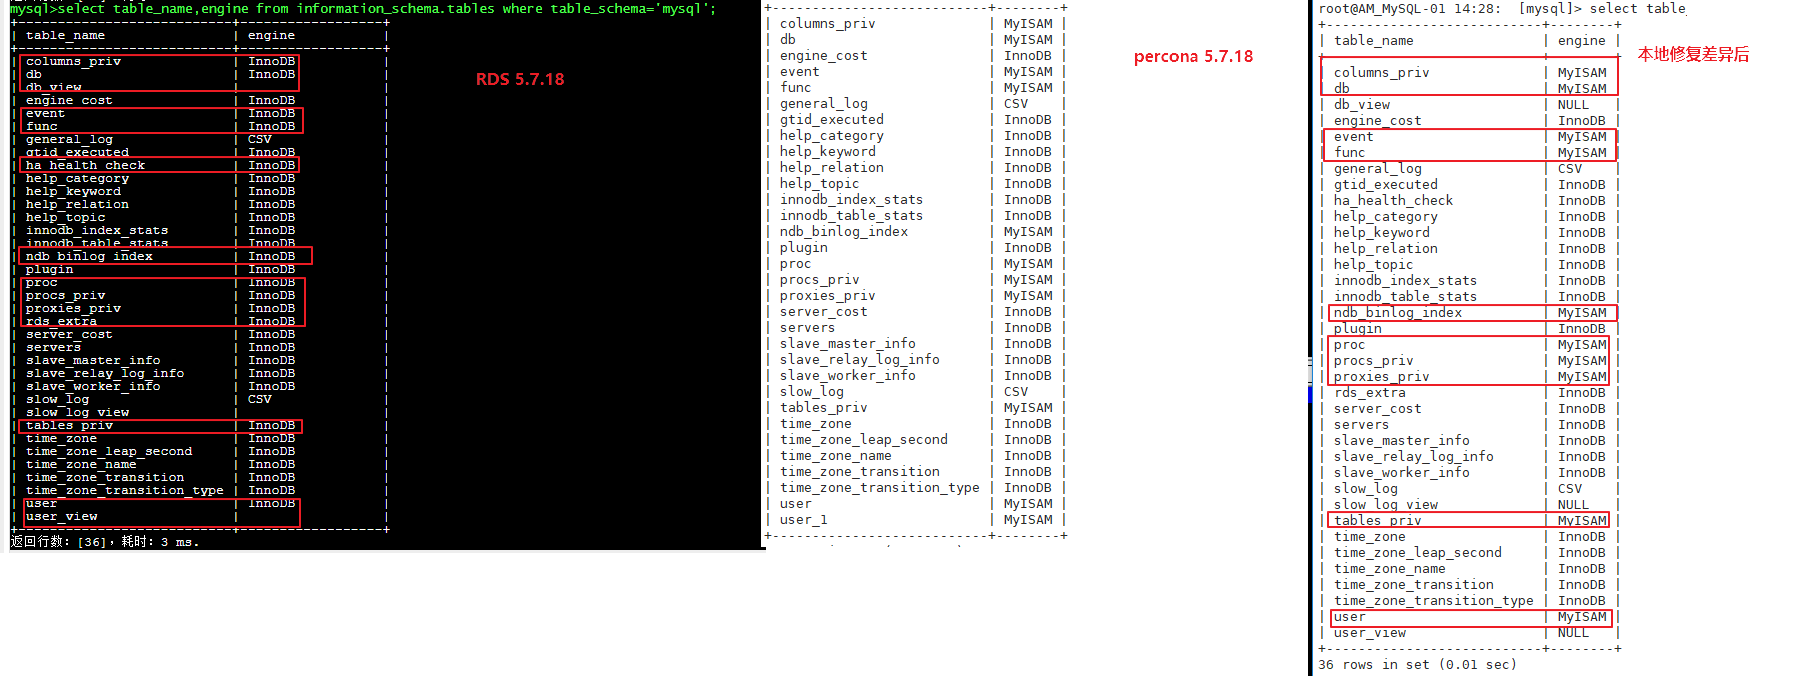
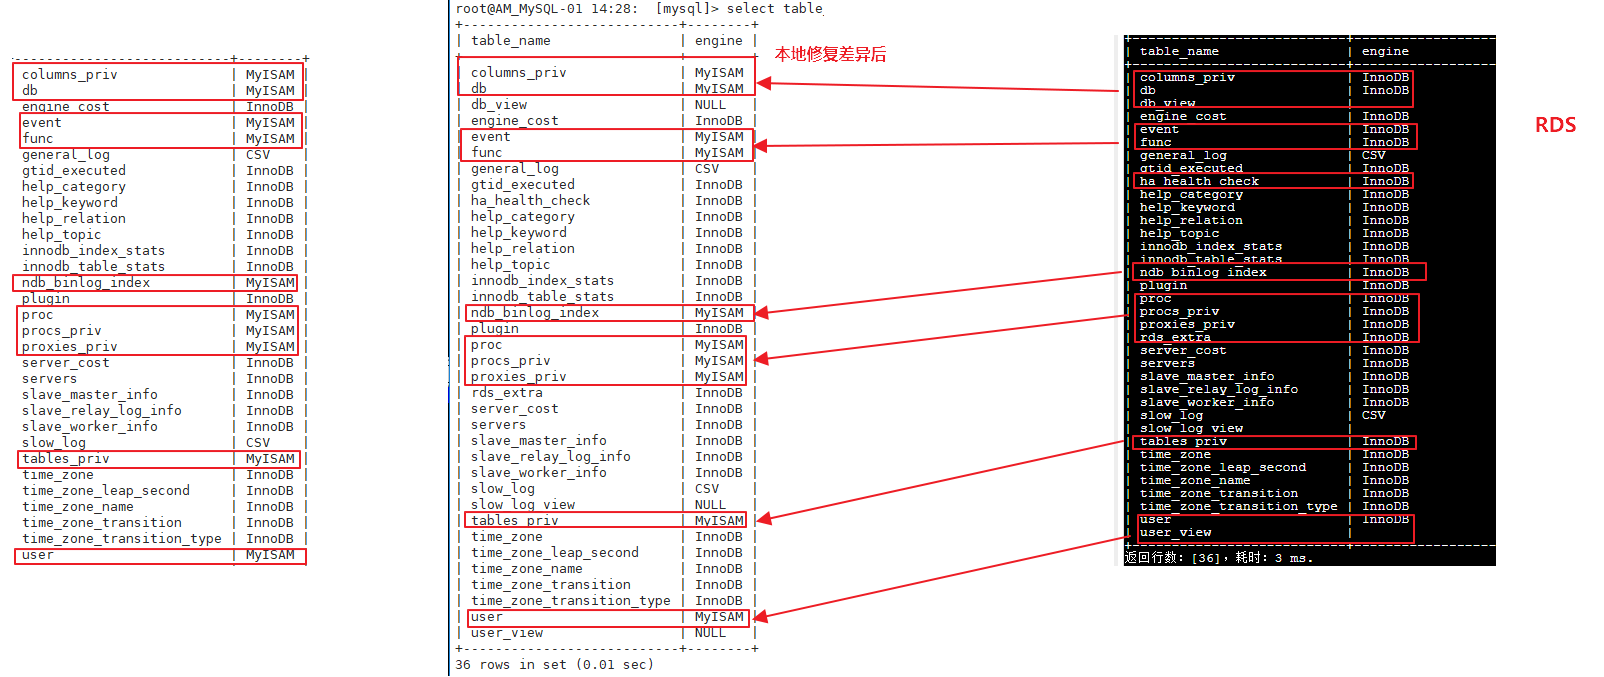
add check_mongodb_replica_set

diff --git a/Tec/突破阿里限制实现RDS For MySQL 5.7到自建MySQL数据实时同步.md b/Tec/突破阿里限制实现RDS For MySQL 5.7到自建MySQL数据实时同步.md
@@ -7,9 +7,7 @@
 
 > **摘要**
 >
-> 阿里云官网表示目前不支持RDS For MySQL 5.7 到自建MySQL的主从搭建，本篇文档尝试突破阿里云限制。经过多次验证发现，RDS使用的应该是Percona的数据库服务器，并进行了二次开发。
-> 第一种方法：物理备份还原后，更新数据库 `mysql_upgrade --force`
-> 第二种方法：物理备份还原后，手动修改系统库引擎
+> 阿里云官网表示目前不支持RDS For MySQL 5.7 到自建MySQL的主从搭建，本篇文档尝试突破阿里云限制。经过多次验证发现，PerconaServer与RDS的兼容性最高， 破解方法为：使用Percona Server，在物理备份还原后，手动修改系统库引擎，已达到数据实时同步，且能够正常于从库进行权限配置。
 
 ## 背景
 
@@ -97,12 +95,16 @@ select table_name,engine from information_schema.tables where table_schema='mysq
 
 ### 具体操作步骤
 
-#### 自建MySQL安装
+#### 1 自建MySQL安装
 
 ```shell
-wget ""
-bash 
+wget "https://raw.githubusercontent.com/BoobooWei/DBA_Mysql/master/scripts/auto_intall/install_perconaxerver5.7.20_centos7.sh"
+bash install_perconaxerver5.7.20_centos7.sh
+/alidata/mysql/support-files/mysql.server start
+mysql -e "select @@version;"
 ```
+
+如果返回`5.7.20-log`则说明已成功安装并启动了数据库服务。
 
 软件架构如下：
 
@@ -115,32 +117,71 @@ bash
 | 配置文件                | /etc/my.cnf                    |
 | RDS备份文件下载解压目录 | /alidata/mysql/xtrabackup_data |
 
-### 备份RDS的元数据（与本地有差别的表）
+#### 2 全备份文件下载并解压
+
+登陆到阿里云RDS控制台，选择最近的全备份进行下载，全备份时间不能超过binlog设置的过期时间。
+
+```shell
+curl -o "hins4764419_data_20180913072637.tar.gz" "http://rdsbak-shanghai-v2.oss-cn-shanghai-internal.aliyuncs.com/asldkjalsdkjflasdjf"
+```
+
+下载pxc工具以及阿里云专用解压工具
+
+```shell
+wget https://raw.githubusercontent.com/BoobooWei/DBA_Mysql/master/scripts/auto_intall/install_rds_pxc_centos7.sh
+bash install_rds_pxc_centos7.sh
+```
+开始解压全备份数据
+
+```shell
+# 全备份恢复
+bash rds_backup_extract.sh -f hins4764419_data_20180913072637.tar.gz -C /alidata/mysql/xtrabackup_data
+# applay-log
+innobackupex --apply-log /alidata/mysql/xtrabackup_data
+chown mysql. -R /alidata/mysql/xtrabackup_data
+```
+如果数据量很大，这一步会非常耗时。
+
+#### 3 将全备份数据恢复
+
+停止数据库服务
+
+```shell
+/alidata/mysql/support-files/mysql.server stop
+```
+
+将初始化的数据库数据目录重命名为data_back
+```shell
+mv /alidata/mysql/data/ /alidata/mysql/data_back
+```
+
+将pxc恢复的全备份文件目录重命名为data
+
+```shell
+mv /alidata/mysql/xtrabackup_data /alidata/mysql/data
+```
+
+启动本地数据库
+
+```shell
+/alidata/mysql/support-files/mysql.server start
+```
+#### 4 手动修改系统库
+
+备份RDS的元数据（与本地有差别的表）
+
+```shell
+mysqldump -u$rds_user -p$rds_pwd -h$rds_url -P $rds_port mysql columns_priv db event func ndb_binlog_index proc procs_priv proxies_priv tables_priv user  --set-gtid-purged=OFF --opt --default-character-set=utf8  --single-transaction --hex-blob --skip-triggers --max_allowed_packet=824288000 -d  > mysql.sys.meta.sql
+```
 
 备份rds差异表的数据
 
-
-
 ```shell
-#!/bin/bash
-# auth:BoobooWei
-# mail:rgweiyaping@hotmail.com
-# info:搭建RDS到自建MySQL主从
-# pxc备份数据恢复路径
-pxc_data=/alidata/mysql/xtrabackup_data
-gtid=
-# 本地自建数据库数据目录
-datadir='/alidata/mysql/data/mysql'
-# rds数据库连接方式
-rds_user='root'
-rds_pwd='Uploo00king'
-rds_url='ssss'
-rds_port=3306
-# 备份RDS的元数据（与本地有差别的表）
-mysqldump -u$rds_user -p$rds_pwd -h$rds_url -P $rds_port mysql columns_priv db event func ndb_binlog_index proc procs_priv proxies_priv tables_priv user  --set-gtid-purged=OFF --opt --default-character-set=utf8  --single-transaction --hex-blob --skip-triggers --max_allowed_packet=824288000 -d  > mysql.sys.meta.sql
-# 备份rds差异表的数据
 mysqldump -u$rds_user -p$rds_pwd -h$rds_url -P $rds_port mysql columns_priv db event func ndb_binlog_index proc procs_priv proxies_priv tables_priv user  --set-gtid-purged=OFF --opt --default-character-set=utf8  --single-transaction --hex-blob --skip-triggers --max_allowed_packet=824288000 -t > mysql.sys.data.sql 
-# 删除本地恢复的差别表
+```
+
+删除本地恢复的差别表
+```shell
 cat > local_drop.sql << ENDF
 drop table columns_priv ;
 drop table db;
@@ -154,8 +195,10 @@ drop table tables_priv;
 drop table user;
 ENDF
 mysql < local_drop.sql 
+```
 
-# 删除本地数据文件
+删除本地数据文件
+```shell
 cd $datadir
 rm -rf columns_priv\.*
 rm -rf db\.*
@@ -167,49 +210,70 @@ rm -rf procs_priv\.*
 rm -rf proxies_priv\.*
 rm -rf tables_priv\.* 
 rm -rf user\.* 
- 
-# 查看数据文件
-ll columns_priv\.*
-ll db\.*
-ll event\.*
-ll func\.*
-ll ndb_binlog_index\.*
-ll proc\.*
-ll procs_priv\.*
-ll proxies_priv\.*
-ll tables_priv\.* 
-ll user\.* 
- 
-# 导入元数据（即表结构）
+```
+
+导入元数据（即表结构）
+```shell
 sed -i 's/ENGINE=InnoDB/ENGINE=myisam/' mysql.sys.meta.sql
 mysql mysql < mysql.sys.meta.sql
- 
-# 导入数据
-mysql mysql < mysql.sys.data.sql
+```
 
+导入数据
+```shell
+mysql mysql < mysql.sys.data.sql
+```
+
+添加权限
+```shell
 cat > local_grant.sql << ENDF
-# 添加权限
 grant all on *.* to 'booboo'@'%' identified by 'Uploo00king';
-# 修改aliyun_root权限
 update mysql.user set authentication_string=password('Uploo00king') where user='aliyun_root';
 ENDF
 
 mysql < local_grant.sql
-# 重新启动服务
+```
+
+重新启动服务
+```shell
 /alidata/mysql/support-files/mysql.server restart
+```
 
+#### 5 配置主从
 
-# 配置主从
+停止本地数据库的replication线程，并清空相关配置
+
+```shell
 stop slave;
 reset slave all;
 reset master;
+```
+
+修改GTID参数
+```shell
 SET GLOBAL gtid_purged='$gtid';
+```
+
+配置主库同步信息
+```shell
 change master to master_host='$url',master_user='$user',master_password='$pwd',master_auto_position=1;
+```
+
+启动replication
+```shell
 start slave;
+```
+
+查看主从明细
+```shell
 show slave status\G;
 ```
 
+## 总结
+
+下面这幅图中最左侧为PerconaServer的系统表清空，中间这副是将RDS系统表修改后的结果，最右边是RDS的系统表情况。
+
+![](pic/rds05.png)
 
 
 
-
+通过手动修改自建MySQL系统库mysql中的表引擎，我们达到了RDS到自建MySQL实时同步的目的，且经过生产环境验证，该方法完全可以突破阿里限制实现云上和IDC机房的数据实时同步。
